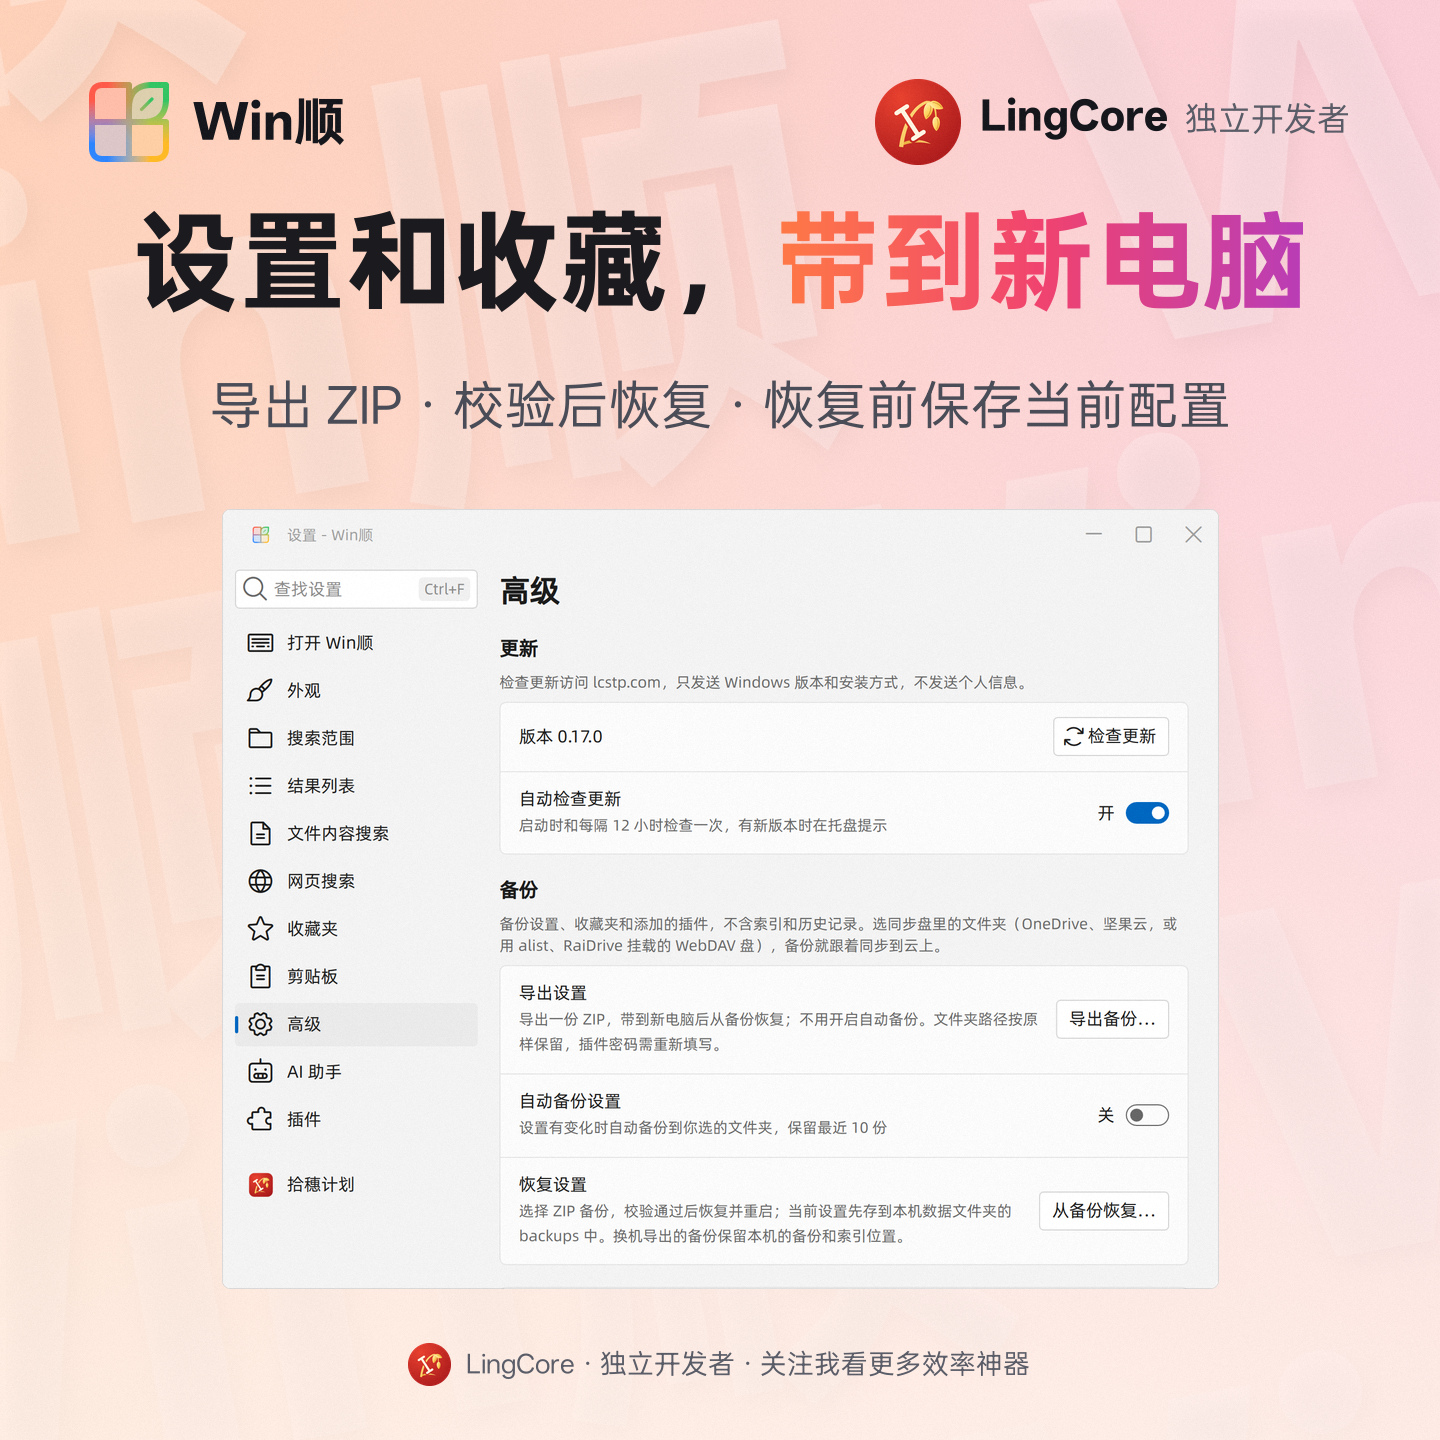
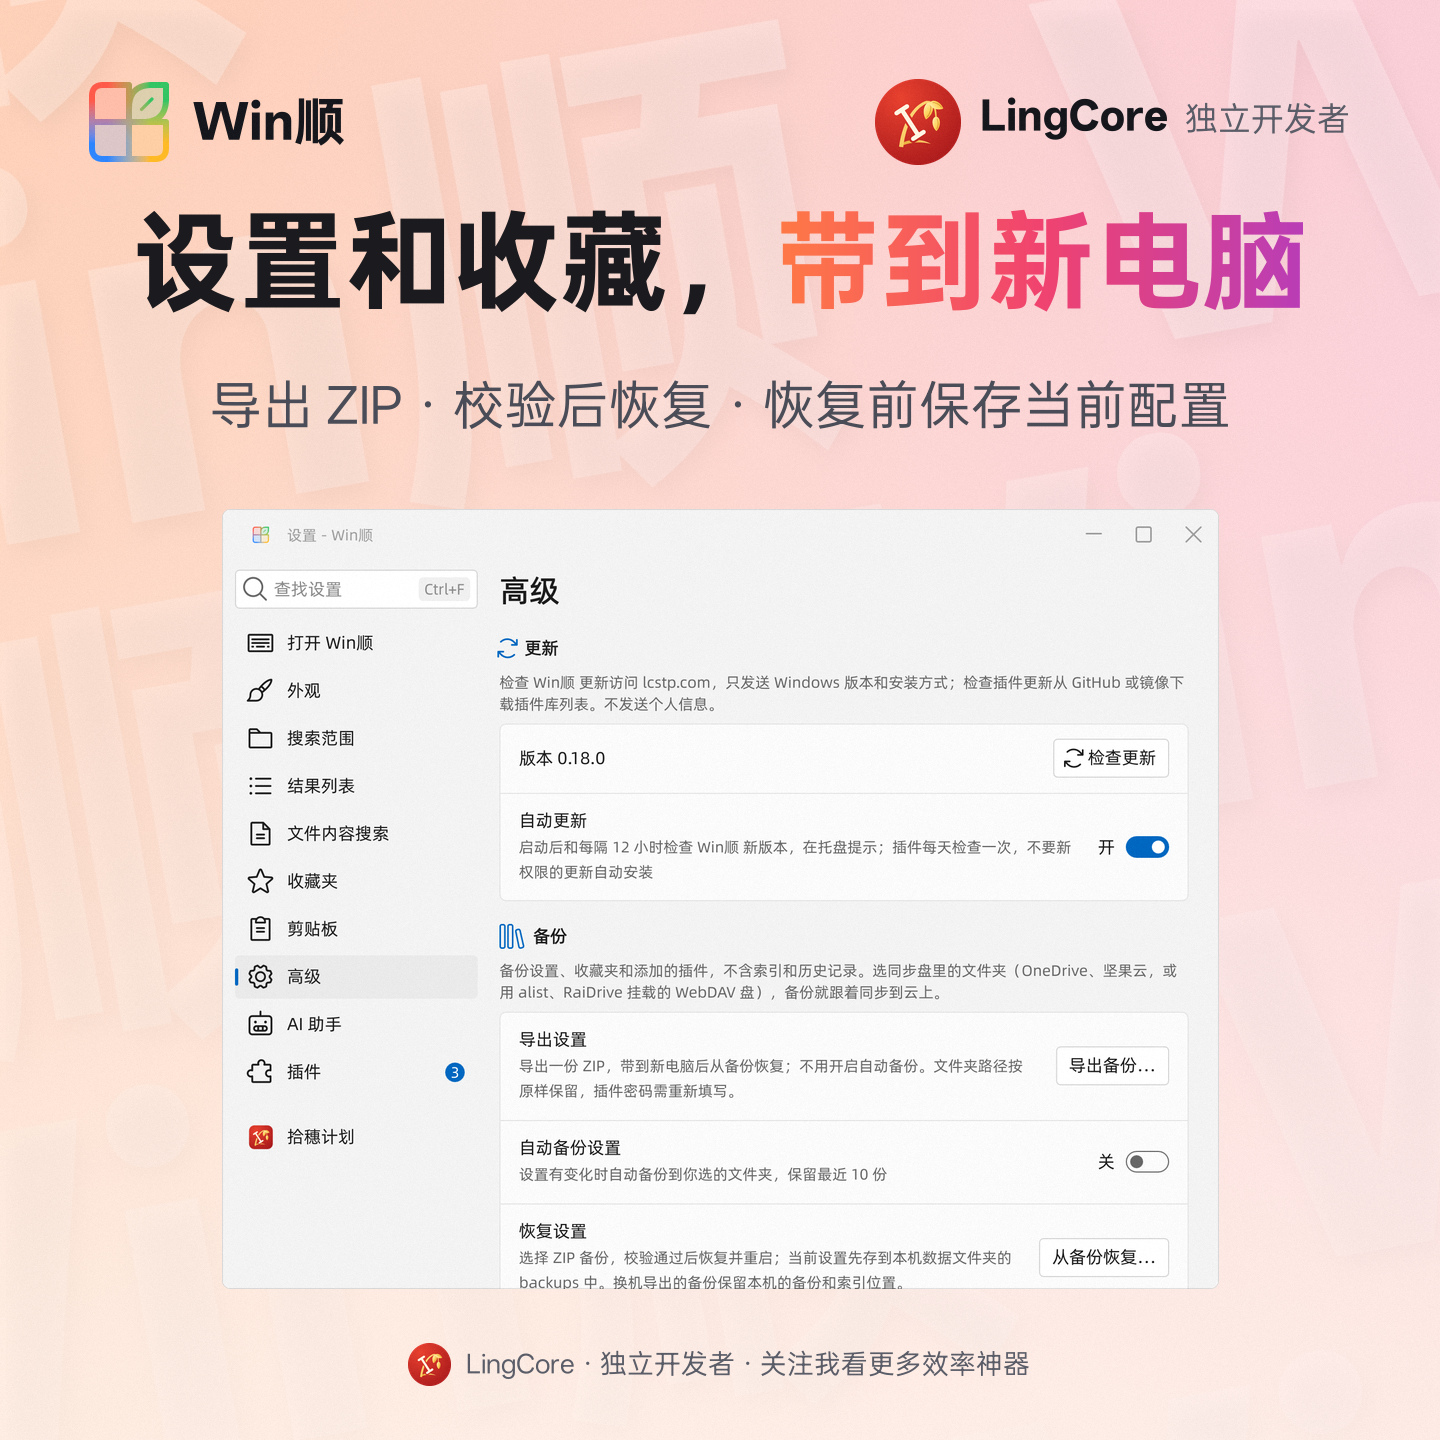
docs: refresh 0.18 screenshots from isolated release previews

diff --git a/tools/screenshots/release018.py b/tools/screenshots/release018.py
@@ -15,12 +15,13 @@ release017.SOURCES = {
     if name not in ("onboarding", "foldermenu")
 }
 release017.SOURCES.update({
-    "cover": ("L-search", "numbers/number-column-main.png", None),
-    "search": ("L-search", "numbers/number-column-main.png", None),
+    "appearance": ("L-appearance", "settings/p01-t0.png", 1440),
+    "droppie": ("L-droppie", "settings/p05-t0.png", None),
+    "backup": ("L-backup", "settings/p07-t0.png", 1440),
     "web": ("L-web", "web/web-plugin-settings.png", None),
-    "plugin-library": ("L-plugin-library", "plugin-library.png", None),
+    "plugin-library": ("L-plugin-library", "settings/p09-t1.png", 1600),
     "ocr-search": ("L-ocr-search", "ocr/window.png", None),
-    "shortcuts": ("L-shortcuts", "shortcuts/shortcut-panel-main.png", None),
+    "shortcuts": ("L-shortcuts", "shortcuts/shortcut-panel-launcher.png", None),
 })
 shots.PAGES = tuple(
     (file, "L-web" if file == "07-web" else source, *rest)
